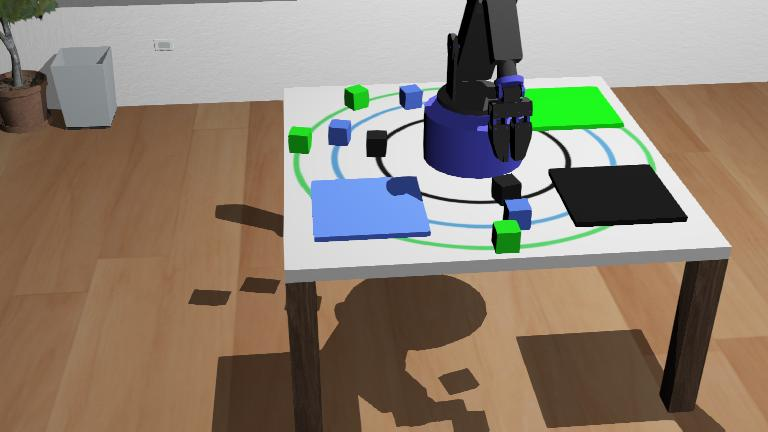
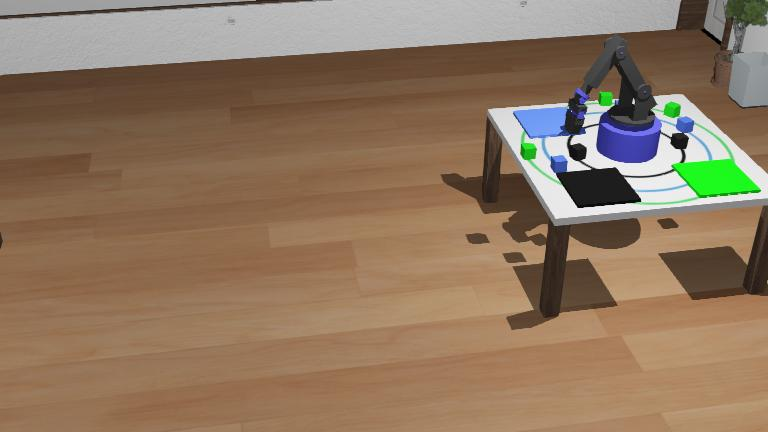
V1: homing added

diff --git a/Basic_Arm/controllers/arm_ctrl_p/arm_ctrl_p.py b/Basic_Arm/controllers/arm_ctrl_p/arm_ctrl_p.py
@@ -48,14 +48,13 @@ for s in sensors.values():
 camera = robot.getDevice('camera')
 camera.enable(timestep * 2)
 
-# Order of placement
-order = random.randint(1,6)
-print('order: ', order)
+#homing
+homing_done = False
 
 # -----------------------------------------------------------------------------------------------------
 # FUNCTION participants must complete
 # -----------------------------------------------------------------------------------------------------
-def arm_controller(sensor_values, image, order):
+def arm_controller(sensor_values, image):
     """
     TODO: process image and implement arm control logic here.
     You are free to import classes, define new functions, and 
@@ -72,13 +71,6 @@ def arm_controller(sensor_values, image, order):
         "claw": vel
     }
     
-    You should place the boxes on the matching surface in respect to value of 'order':
-    1 : blue, green, black
-    2 : blue, black, green
-    3 : green, blue, black
-    4 : green, black, blue
-    5 : black, blue, green
-    6 : black, green, blue
     """
     
     print(sensor_values)
@@ -156,18 +148,55 @@ def keyboard_arm_controller(sensor_values, image):
     return velocities
 
 # -----------------------------------------------------------------------------------------------------
+# Move arm to initial pose
+# -----------------------------------------------------------------------------------------------------
+def move_arm_to_initial(sensor_values,
+                         targets=None,
+                         kp=1.5,
+                         tolerance=0.01,
+                         max_speed=0.6):
+
+
+    if targets is None:
+        targets = {
+            "waist": 0.0,
+            "shoulder": 0.0,
+            "elbow": 0.0,
+            "wrist": 0.0,
+            "pitch": 0.0,
+            "claw": 0.0
+        }
+
+    velocities = {}
+
+    for joint, target in targets.items():
+
+        sensor_key = "fingers" if joint == "claw" else joint
+        current = sensor_values[sensor_key]
+        error = target - current
+
+        if abs(error) < tolerance:
+            velocities[joint] = 0.0
+        else:
+            vel = kp * error
+
+            vel = max(min(vel, max_speed), -max_speed)
+            velocities[joint] = vel
+
+    return velocities
+
+# -----------------------------------------------------------------------------------------------------
 # MAIN LOOP (DO NOT MODIFY!)
 # -----------------------------------------------------------------------------------------------------
 while robot.step(timestep) != -1:
     
     sensor_values = {name: s.getValue() for name, s in sensors.items()}
-    
+
     for name, s in sensor_values.items():
         if abs(s) < 0.0001:
             sensor_values[name] = 0.0
         else:
             sensor_values[name] = round(s, 3)
-                    
     image = camera.getImage()
     
     if image is not None:
@@ -179,12 +208,20 @@ while robot.step(timestep) != -1:
         
         bgr_image = img_data[:, :, :3]
 
-    
-    # call the controller
-    # velocities = arm_controller(sensor_values, bgr_image, order)
+    # homing
+    if not homing_done:
+        velocities = move_arm_to_initial(sensor_values)
 
-    # manuall controller
-    velocities = keyboard_arm_controller(sensor_values, bgr_image)
+        if all(abs(v) < 1e-3 for v in velocities.values()):
+            homing_done = True
+            print("Homing completed.")
+    else:
+   
+        # call the controller
+        # velocities = arm_controller(sensor_values, bgr_image)
+
+        # manuall controller
+        velocities = keyboard_arm_controller(sensor_values, bgr_image)
 
     for joint, vel in velocities.items():
         motors[joint].setVelocity(vel)
